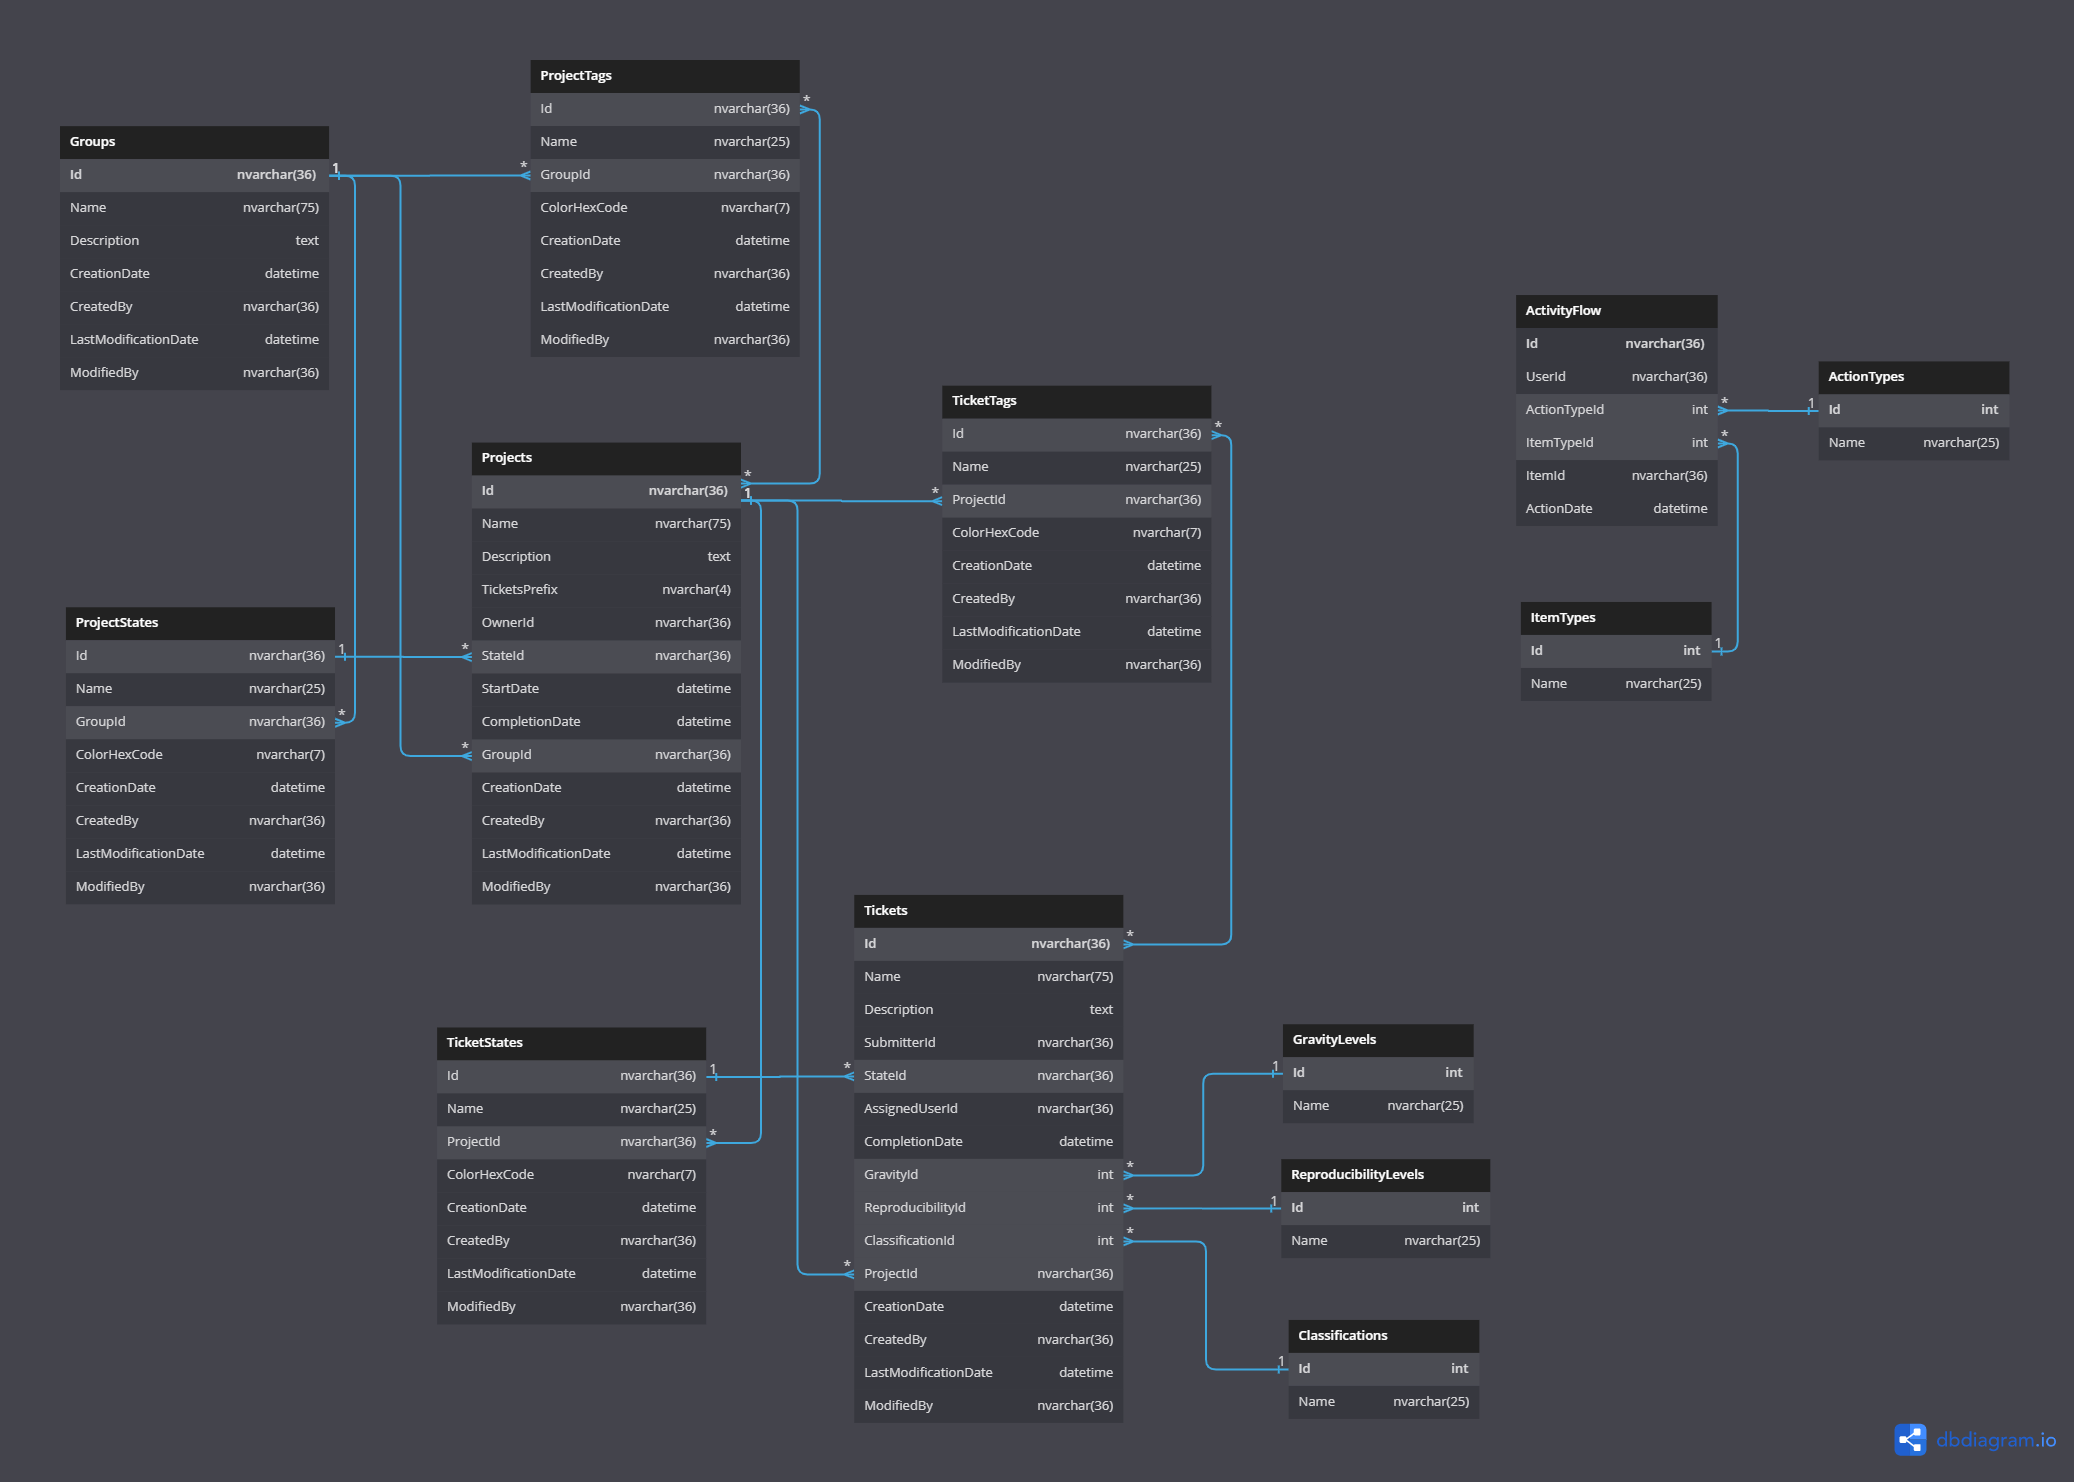
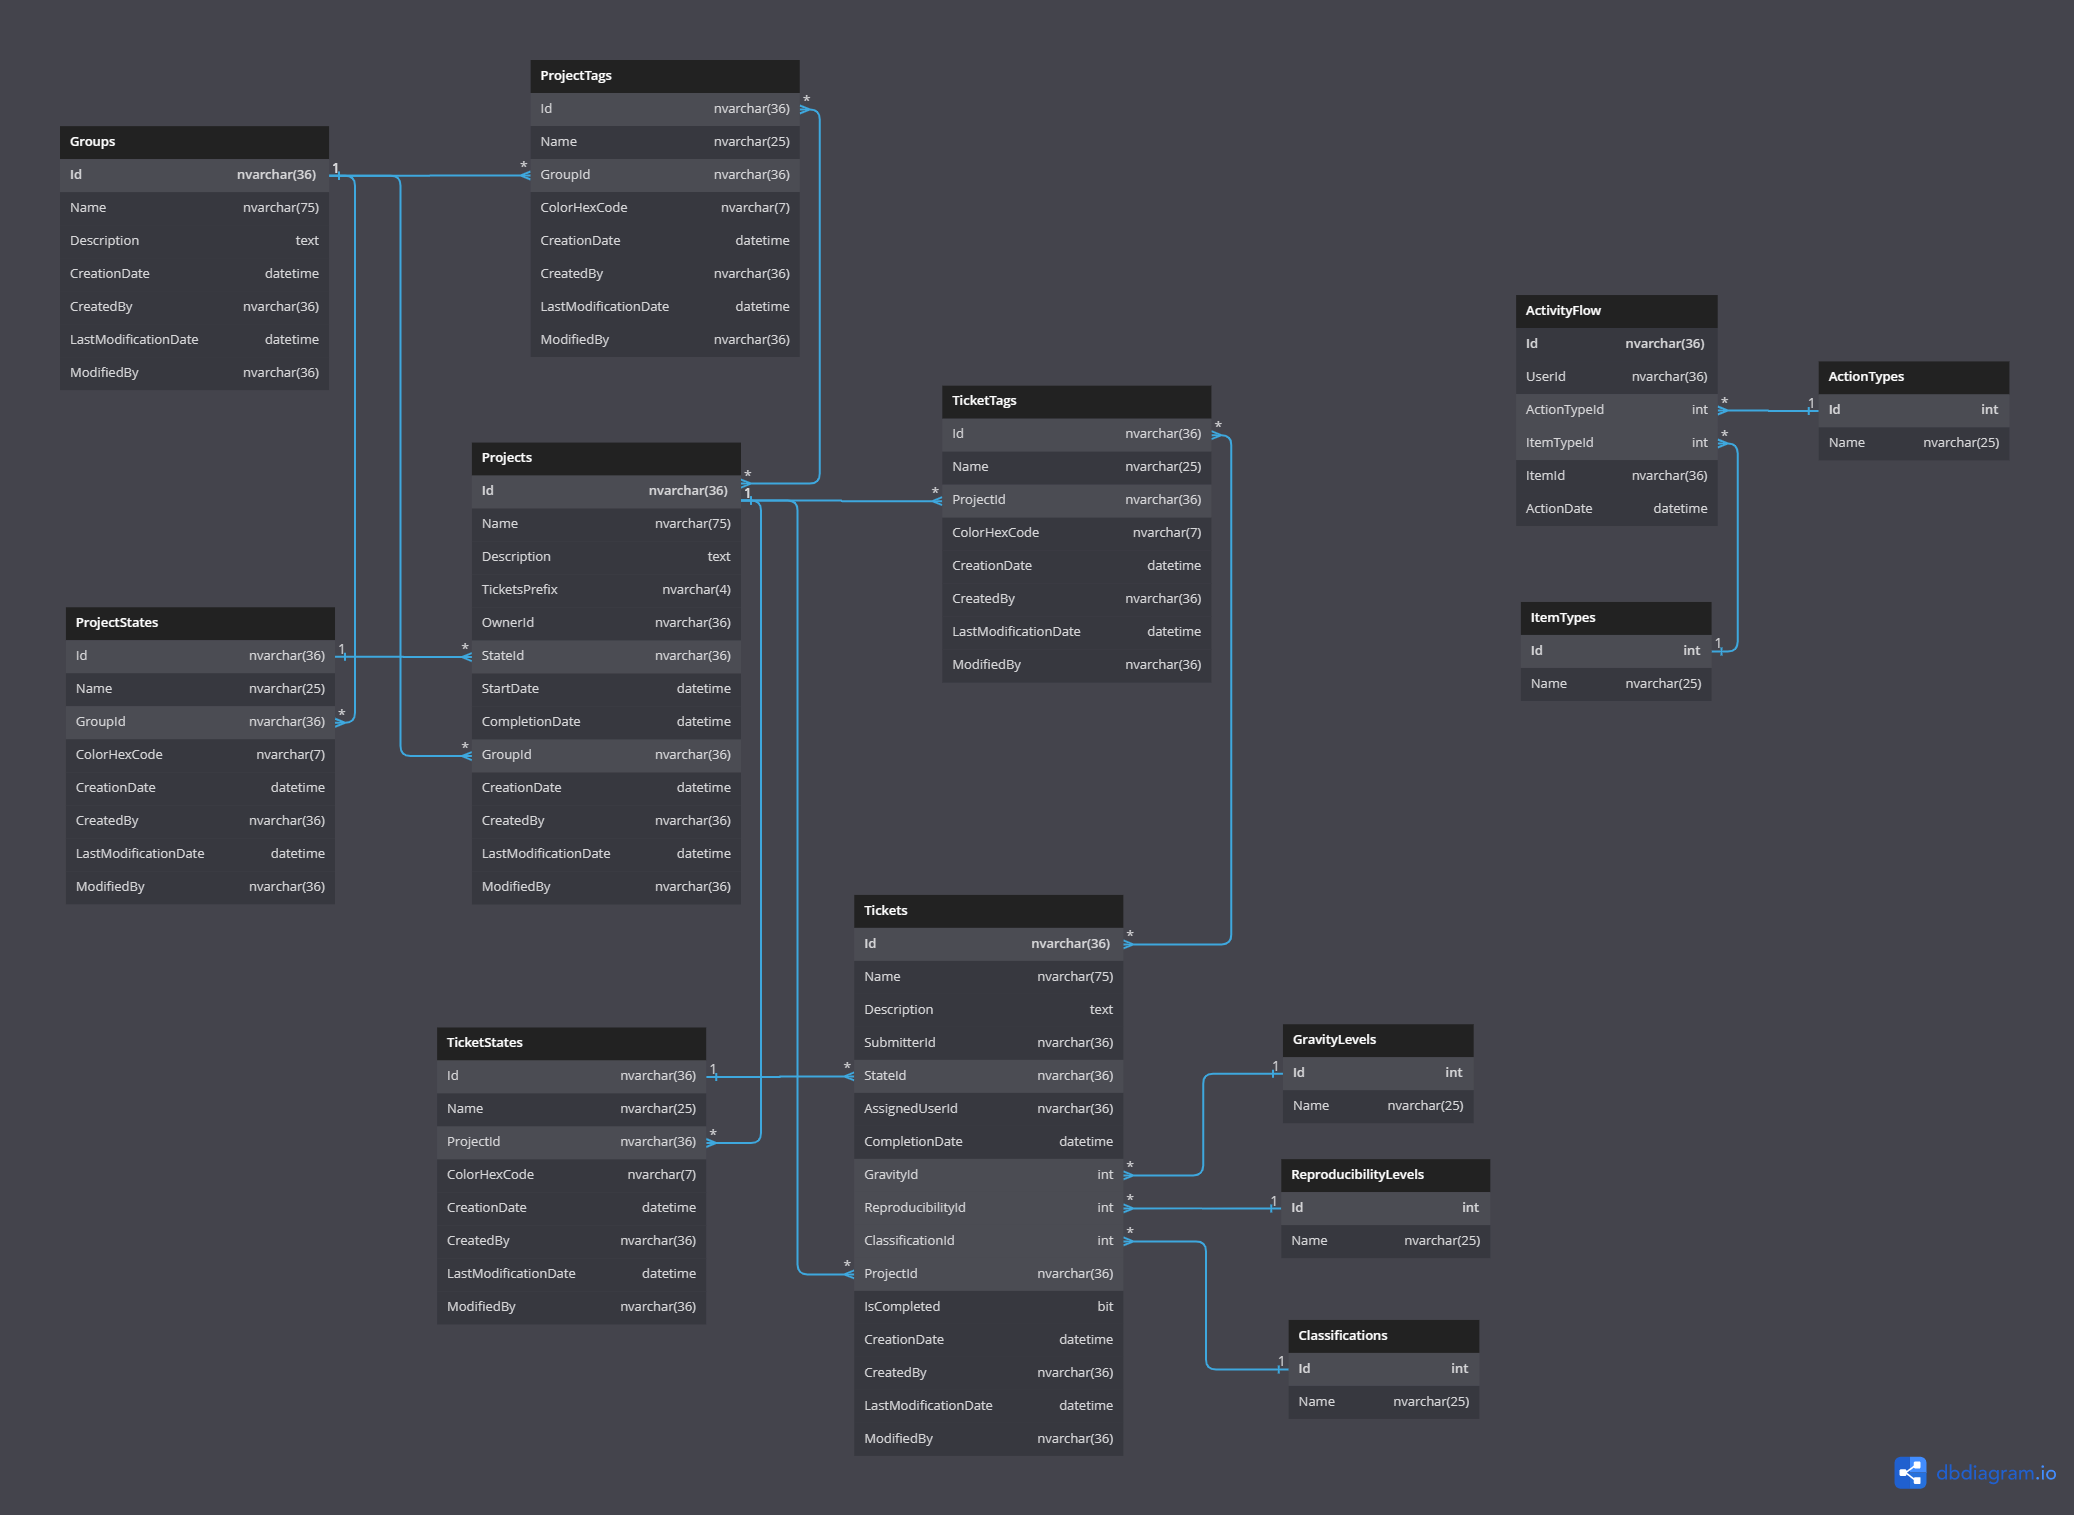
Agrega propiedad IsCompleted a los Tickets. Realiza borrado en cascada a las tablas en la base de datos.

diff --git a/src/Infrastructure/Persistence/Configurations/TicketConfiguration.cs b/src/Infrastructure/Persistence/Configurations/TicketConfiguration.cs
@@ -30,6 +30,8 @@ namespace Infrastructure.Persistence.Configurations
             builder.Property(e => e.ClassificationId).HasColumnType("int");
 
             builder.Property(e => e.ProjectId).HasMaxLength(36);
+
+            builder.Property(e => e.IsCompleted).HasColumnType("bit");
             
             ConfigureRelationships(builder);
         }
@@ -54,13 +56,13 @@ namespace Infrastructure.Persistence.Configurations
             builder.HasOne(d => d.Project)
                 .WithMany(p => p.Tickets)
                 .HasForeignKey(d => d.ProjectId)
-                .OnDelete(DeleteBehavior.ClientCascade)
+                .OnDelete(DeleteBehavior.Cascade)
                 .HasConstraintName("FK_Projects_Tickets");
 
             builder.HasOne(d => d.State)
                 .WithMany(p => p.Tickets)
                 .HasForeignKey(d => d.StateId)
-                .OnDelete(DeleteBehavior.ClientCascade)
+                .OnDelete(DeleteBehavior.NoAction)
                 .HasConstraintName("FK_TicketsStates_Tickets");
 
             builder.HasMany(d => d.Tags)

diff --git a/src/Infrastructure/Persistence/BugTrackerContext.cs b/src/Infrastructure/Persistence/BugTrackerContext.cs
@@ -17,10 +17,10 @@ namespace Infrastructure.Persistence
 
         public virtual DbSet<ActionType> ActionTypes { get; set; } = null!;
         public virtual DbSet<ActivityFlow> ActivityFlows { get; set; } = null!;
+        public virtual DbSet<ItemType> ItemTypes { get; set; } = null!;
         public virtual DbSet<Classification> Classifications { get; set; } = null!;
         public virtual DbSet<GravityLevel> GravityLevels { get; set; } = null!;
         public virtual DbSet<Group> Groups { get; set; } = null!;
-        public virtual DbSet<ItemType> ItemTypes { get; set; } = null!;
         public virtual DbSet<Project> Projects { get; set; } = null!;
         public virtual DbSet<ProjectState> ProjectStates { get; set; } = null!;
         public virtual DbSet<ProjectTag> ProjectTags { get; set; } = null!;

diff --git a/src/Domain/Entities/Ticket.cs b/src/Domain/Entities/Ticket.cs
@@ -6,6 +6,8 @@ namespace Domain.Entities
     {
         public Ticket()
         {
+            IsCompleted = false;
+
             Tags = new HashSet<TicketTag>();
         }
 
@@ -28,6 +30,8 @@ namespace Domain.Entities
         public int? ClassificationId { get; set; }
 
         public string ProjectId { get; set; } = null!;
+
+        public bool IsCompleted { get; set; }
 
 
         public Classification? Classification { get; set; }

diff --git a/src/Infrastructure/Persistence/Configurations/ProjectConfiguration.cs b/src/Infrastructure/Persistence/Configurations/ProjectConfiguration.cs
@@ -41,7 +41,7 @@ namespace Infrastructure.Persistence.Configurations
             builder.HasOne(d => d.Group)
                 .WithMany(p => p.Projects)
                 .HasForeignKey(d => d.GroupId)
-                .OnDelete(DeleteBehavior.ClientSetNull)
+                .OnDelete(DeleteBehavior.SetNull)
                 .HasConstraintName("FK_Groups_Projects");
 
             builder.HasOne(d => d.State)

diff --git a/src/Infrastructure/Persistence/Configurations/TicketStateConfiguration.cs b/src/Infrastructure/Persistence/Configurations/TicketStateConfiguration.cs
@@ -25,7 +25,7 @@ namespace Infrastructure.Persistence.Configurations
             builder.HasOne(d => d.Project)
                 .WithMany(p => p.TicketStates)
                 .HasForeignKey(d => d.ProjectId)
-                .OnDelete(DeleteBehavior.ClientCascade)
+                .OnDelete(DeleteBehavior.Cascade)
                 .HasConstraintName("FK_Projects_TicketStates");
         }
     }

diff --git a/src/Infrastructure/Persistence/Configurations/ProjectStateConfiguration.cs b/src/Infrastructure/Persistence/Configurations/ProjectStateConfiguration.cs
@@ -25,7 +25,7 @@ namespace Infrastructure.Persistence.Configurations
             builder.HasOne(d => d.Group)
                 .WithMany(p => p.ProjectStates)
                 .HasForeignKey(d => d.GroupId)
-                .OnDelete(DeleteBehavior.ClientSetNull)
+                .OnDelete(DeleteBehavior.SetNull)
                 .HasConstraintName("FK_Groups_ProjectStates");
         }
     }

diff --git a/src/Infrastructure/Persistence/Configurations/TicketTagConfiguration.cs b/src/Infrastructure/Persistence/Configurations/TicketTagConfiguration.cs
@@ -25,7 +25,7 @@ namespace Infrastructure.Persistence.Configurations
             builder.HasOne(d => d.Project)
                 .WithMany(p => p.TicketTags)
                 .HasForeignKey(d => d.ProjectId)
-                .OnDelete(DeleteBehavior.ClientCascade)
+                .OnDelete(DeleteBehavior.Cascade)
                 .HasConstraintName("FK_Projects_TicketTags");
         }
     }

diff --git a/src/Infrastructure/Persistence/Configurations/ProjectTagConfiguration.cs b/src/Infrastructure/Persistence/Configurations/ProjectTagConfiguration.cs
@@ -25,7 +25,7 @@ namespace Infrastructure.Persistence.Configurations
             builder.HasOne(d => d.Group)
                 .WithMany(p => p.ProjectTags)
                 .HasForeignKey(d => d.GroupId)
-                .OnDelete(DeleteBehavior.ClientSetNull)
+                .OnDelete(DeleteBehavior.SetNull)
                 .HasConstraintName("FK_Groups_ProjectTags");
         }
     }

diff --git a/src/Application/Services/TicketService.cs b/src/Application/Services/TicketService.cs
@@ -49,6 +49,7 @@ namespace Application.Services
             currentTicket.ReproducibilityId = ticket.ReproducibilityId;
             currentTicket.ClassificationId = ticket.ClassificationId;
             currentTicket.ProjectId = ticket.ProjectId;
+            currentTicket.IsCompleted = ticket.IsCompleted;
 
             await _unitOfWork.CompleteAsync();
         }

diff --git a/src/Application/DTOs/Response/TicketResponseDto.cs b/src/Application/DTOs/Response/TicketResponseDto.cs
@@ -25,5 +25,7 @@ namespace Application.DTOs.Response
         public string? ProjectId { get; set; }
 
         public IEnumerable<TagMiniResponseDto> AssignedTags { get; set; } = null!;
+
+        public bool IsCompleted { get; set; }
     }
 }

diff --git a/src/Application/DTOs/Request/TicketRequestDto.cs b/src/Application/DTOs/Request/TicketRequestDto.cs
@@ -28,5 +28,7 @@
         public int? ClassificationId { get; set; }
 
         public string? ProjectId { get; set; }
+
+        public bool IsCompleted { get; set; }
     }
 }
